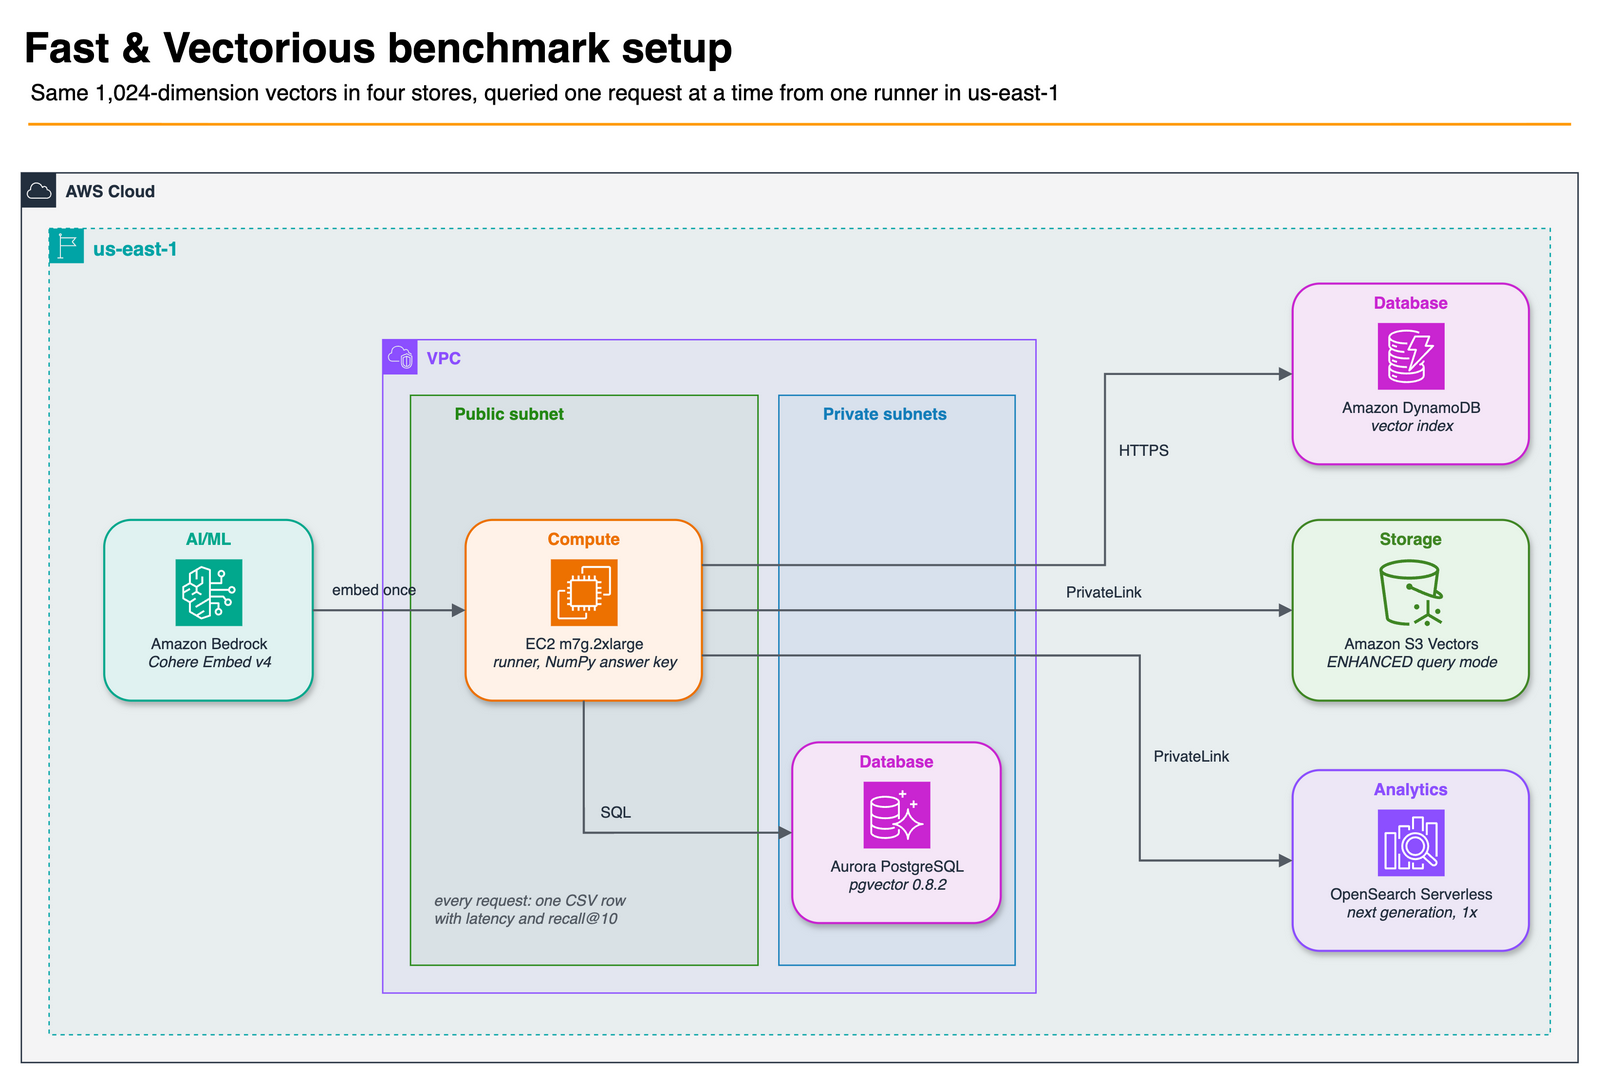
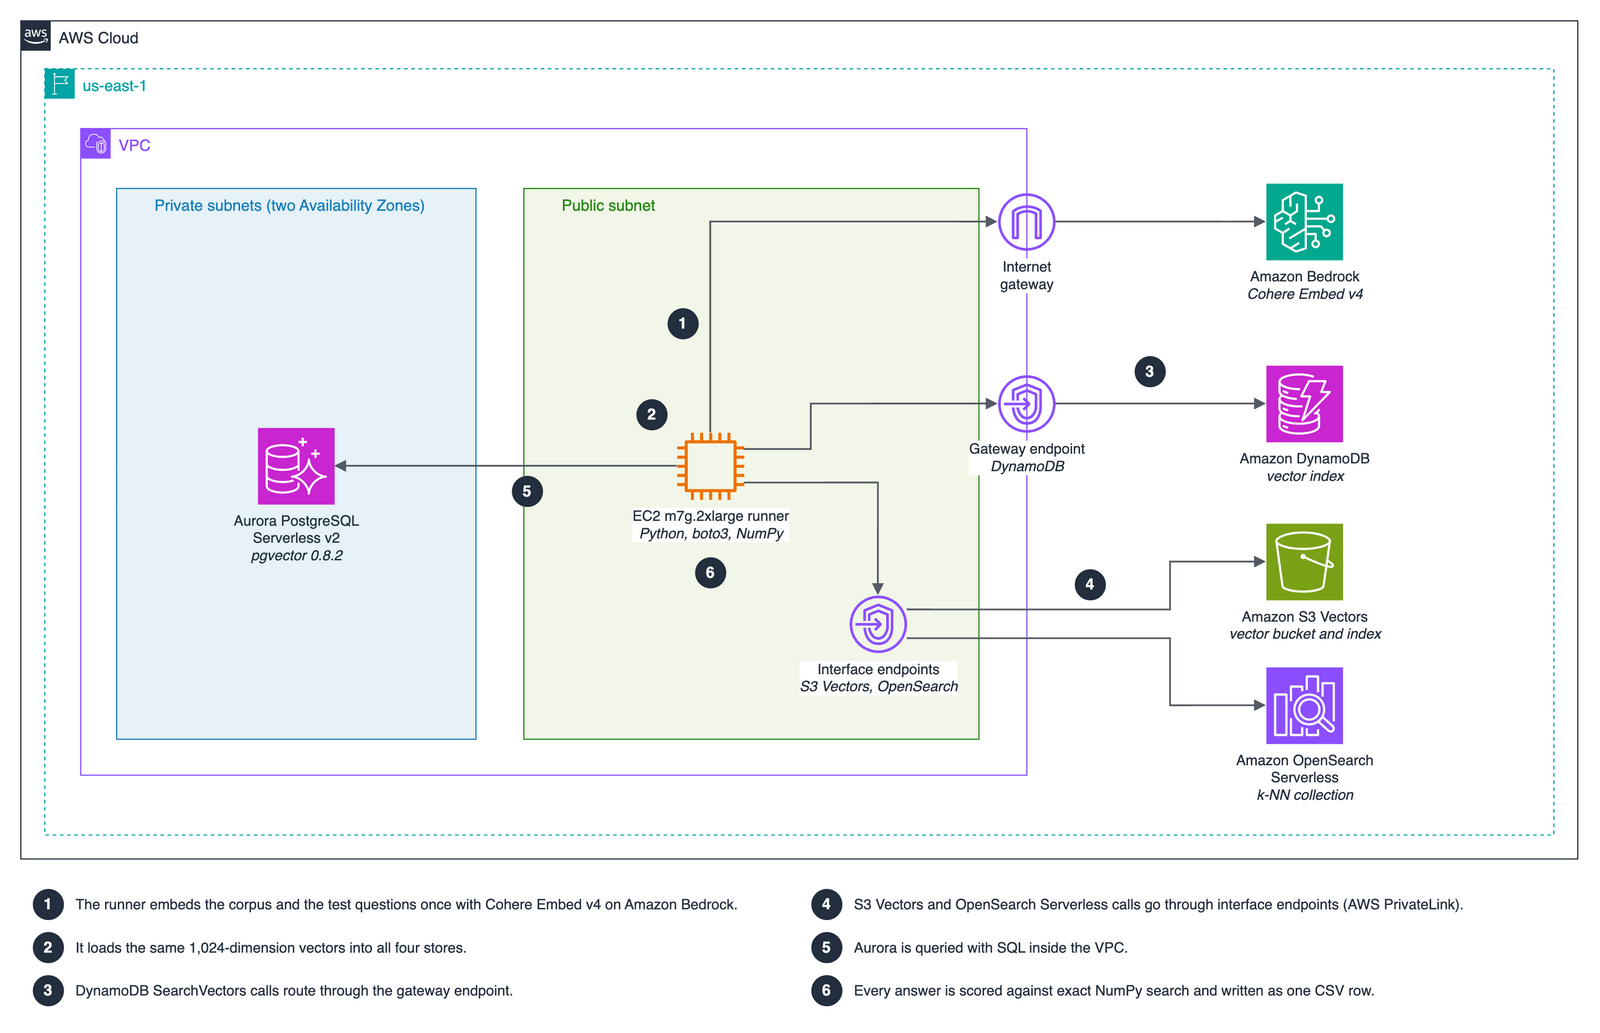
docs(article): redraw lab architecture in AWS reference style
Rebuild 01-architecture.png from a generated draw.io file
(img/src/architecture.py): AWS Cloud, region, VPC and subnet groups,
gateway and interface endpoints on the real infra/ topology, numbered
steps with a legend. Update the figure's alt text to match.

Claude-Session: https://claude.ai/code/session_012yNLCtYypbK8c2xCeGx44U

diff --git a/article/img/src/architecture.py b/article/img/src/architecture.py
@@ -1,0 +1,126 @@
+"""Write architecture.drawio: the lab setup in AWS reference-architecture style.
+
+    python3 article/img/src/architecture.py
+    /Applications/draw.io.app/Contents/MacOS/draw.io -x -f png --width 1600 -b 20 \
+        -o article/img/01-architecture.png article/img/src/architecture.drawio
+
+Topology follows infra/network.tf, infra/stores.tf and infra/runner.tf.
+"""
+from pathlib import Path
+from xml.sax.saxutils import escape
+
+FONT = "fontFamily=Helvetica;"
+INK = "#232F3E"
+PTS = ("points=[[0,0],[0.25,0],[0.5,0],[0.75,0],[1,0],[1,0.25],[1,0.5],[1,0.75],[1,1],"
+       "[0.75,1],[0.5,1],[0.25,1],[0,1],[0,0.75],[0,0.5],[0,0.25]];")
+cells = []
+
+
+def cell(id_, value, style, x, y, w, h):
+    value = value.replace("\n", "<br>")
+    cells.append(f'<mxCell id="{id_}" value="{escape(value, {chr(34): "&quot;"})}" style="{style}" '
+                 f'vertex="1" parent="1"><mxGeometry x="{x}" y="{y}" width="{w}" height="{h}" as="geometry"/></mxCell>')
+
+
+def group(id_, label, icon, stroke, fill, x, y, w, h, *, dashed=0, bold=0):
+    cell(id_, label, f"{PTS}outlineConnect=0;gradientColor=none;html=1;whiteSpace=wrap;fontSize=13;"
+         f"fontStyle={bold};shape=mxgraph.aws4.group;grIcon=mxgraph.aws4.{icon};strokeColor={stroke};"
+         f"fillColor={fill};verticalAlign=top;align=left;spacingLeft=30;fontColor={stroke};dashed={dashed};"
+         f"container=0;pointerEvents=0;collapsible=0;recursiveResize=0;{FONT}", x, y, w, h)
+
+
+def service(id_, label, icon, color, x, y, size=64):
+    cell(id_, label, f"sketch=0;outlineConnect=0;fontColor={INK};gradientColor=none;fillColor={color};"
+         f"strokeColor=#ffffff;dashed=0;verticalLabelPosition=bottom;verticalAlign=top;align=center;html=1;"
+         f"fontSize=12;fontStyle=0;aspect=fixed;shape=mxgraph.aws4.resourceIcon;resIcon=mxgraph.aws4.{icon};{FONT}",
+         x, y, size, size)
+
+
+def resource(id_, label, shape, color, x, y, size=48, label_pos="bottom"):
+    pos = ("verticalLabelPosition=bottom;verticalAlign=top;align=center;" if label_pos == "bottom" else
+           "labelPosition=left;verticalLabelPosition=middle;align=right;verticalAlign=middle;spacingRight=4;")
+    cell(id_, label, f"sketch=0;outlineConnect=0;fontColor={INK};gradientColor=none;fillColor={color};"
+         f"strokeColor=none;dashed=0;{pos}html=1;fontSize=12;fontStyle=0;aspect=fixed;pointerEvents=1;"
+         f"shape=mxgraph.aws4.{shape};labelBackgroundColor=#ffffff;{FONT}", x, y, size, size)
+
+
+def edge(id_, src, dst, exit_, entry, points=(), dashed=0):
+    wp = "".join(f'<mxPoint x="{px}" y="{py}"/>' for px, py in points)
+    geo = f'<Array as="points">{wp}</Array>' if wp else ""
+    cells.append(f'<mxCell id="{id_}" style="edgeStyle=orthogonalEdgeStyle;html=1;endArrow=block;endFill=1;'
+                 f'strokeColor=#545B64;strokeWidth=1.5;rounded=0;dashed={dashed};exitX={exit_[0]};exitY={exit_[1]};'
+                 f'exitDx=0;exitDy=0;entryX={entry[0]};entryY={entry[1]};entryDx=0;entryDy=0;{FONT}" '
+                 f'edge="1" parent="1" source="{src}" target="{dst}"><mxGeometry relative="1" as="geometry">'
+                 f'{geo}</mxGeometry></mxCell>')
+
+
+def badge(n, x, y):
+    cell(f"badge-{n}", str(n), f"ellipse;whiteSpace=wrap;html=1;aspect=fixed;fillColor={INK};strokeColor=none;"
+         f"fontColor=#FFFFFF;fontStyle=1;fontSize=13;{FONT}", x, y, 26, 26)
+
+
+# Groups
+group("aws-cloud", "AWS Cloud", "group_aws_cloud_alt", INK, "none", 20, 20, 1300, 700)
+group("region", "us-east-1", "group_region", "#00A4A6", "none", 40, 60, 1260, 640, dashed=1)
+group("vpc", "VPC", "group_vpc2", "#8C4FFF", "none", 70, 110, 790, 540)
+group("private", "Private subnets (two Availability Zones)", "group_private_subnet", "#147EBA", "#E6F2F8",
+      100, 160, 300, 460)
+group("public", "Public subnet", "group_public_subnet", "#248814", "#F2F6E8", 440, 160, 380, 460)
+
+# Inside the VPC
+service("aurora", "Aurora PostgreSQL\nServerless v2\n<i>pgvector 0.8.2</i>", "aurora", "#C925D1", 218, 360)
+resource("runner", "EC2 m7g.2xlarge runner\n<i>Python, boto3, NumPy</i>", "instance2", "#ED7100", 568, 364, 56)
+resource("ifep", "Interface endpoints\n<i>S3 Vectors, OpenSearch</i>", "endpoints", "#8C4FFF", 712, 500)
+
+# On the VPC edge
+resource("igw", "Internet\ngateway", "internet_gateway", "#8C4FFF", 836, 164)
+resource("gwep", "Gateway endpoint\n<i>DynamoDB</i>", "endpoints", "#8C4FFF", 836, 316)
+
+# Regional services
+service("bedrock", "Amazon Bedrock\n<i>Cohere Embed v4</i>", "bedrock", "#01A88D", 1060, 156)
+service("ddb", "Amazon DynamoDB\n<i>vector index</i>", "dynamodb", "#C925D1", 1060, 308)
+service("s3v", "Amazon S3 Vectors\n<i>vector bucket and index</i>", "s3", "#7AA116", 1060, 440)
+service("aoss", "Amazon OpenSearch\nServerless\n<i>k-NN collection</i>", "elasticsearch_service", "#8C4FFF",
+        1060, 560)
+
+# Flows
+edge("e-embed-1", "runner", "igw", (0.5, 0), (0, 0.5), points=[(596, 188)])
+edge("e-embed-2", "igw", "bedrock", (1, 0.5), (0, 0.5))
+edge("e-ddb-1", "runner", "gwep", (1, 0.25), (0, 0.5), points=[(680, 378), (680, 340)])
+edge("e-ddb-2", "gwep", "ddb", (1, 0.5), (0, 0.5))
+edge("e-if", "runner", "ifep", (1, 0.75), (0.5, 0), points=[(736, 406)])
+edge("e-s3v", "ifep", "s3v", (1, 0.25), (0, 0.5), points=[(980, 512), (980, 472)])
+edge("e-aoss", "ifep", "aoss", (1, 0.75), (0, 0.5), points=[(980, 536), (980, 592)])
+edge("e-aurora", "runner", "aurora", (0, 0.5), (1, 0.5))
+
+# Steps
+badge(1, 560, 260)
+badge(2, 534, 336)
+badge(3, 950, 300)
+badge(4, 900, 478)
+badge(5, 430, 400)
+badge(6, 583, 468)
+
+# Legend under the diagram
+steps = [
+    "The runner embeds the corpus and the test questions once with Cohere Embed v4 on Amazon Bedrock.",
+    "It loads the same 1,024-dimension vectors into all four stores.",
+    "DynamoDB SearchVectors calls route through the gateway endpoint.",
+    "S3 Vectors and OpenSearch Serverless calls go through interface endpoints (AWS PrivateLink).",
+    "Aurora is queried with SQL inside the VPC.",
+    "Every answer is scored against exact NumPy search and written as one CSV row.",
+]
+for i, text in enumerate(steps):
+    col, row = divmod(i, 3)
+    x, y = 30 + col * 650, 745 + row * 36
+    badge(f"{i + 1}-legend", x, y)
+    cells[-1] = cells[-1].replace(f'value="{i + 1}-legend"', f'value="{i + 1}"')
+    cell(f"legend-{i + 1}", text, f"text;html=1;align=left;verticalAlign=middle;whiteSpace=wrap;fontSize=12;"
+         f"fontColor={INK};{FONT}", x + 34, y - 4, 600, 34)
+
+xml = ('<mxfile host="Electron"><diagram name="Lab setup" id="lab-setup"><mxGraphModel dx="1400" dy="1000" '
+       'grid="0" gridSize="10" guides="1" tooltips="1" connect="1" arrows="1" fold="1" page="0" pageScale="1" '
+       'math="0" shadow="0"><root><mxCell id="0"/><mxCell id="1" parent="0"/>'
+       + "".join(cells) + "</root></mxGraphModel></diagram></mxfile>")
+Path(__file__).with_name("architecture.drawio").write_text(xml, encoding="utf-8")
+print("wrote architecture.drawio")

diff --git a/article/article.md b/article/article.md
@@ -62,7 +62,7 @@ Two of them, DynamoDB and S3 Vectors, have no servers or capacity to size. OpenS
 
 ## What you need
 
-![One EC2 runner in a VPC queries Aurora inside the VPC, DynamoDB over HTTPS, and S3 Vectors and OpenSearch Serverless through PrivateLink](img/01-architecture.png)
+![One EC2 runner in a VPC queries Aurora inside the VPC, DynamoDB through a gateway endpoint, S3 Vectors and OpenSearch Serverless through interface endpoints, and Bedrock through the internet gateway](img/01-architecture.png)
 
 - **An AWS account and a region with all four services.** I used us-east-1. The repo's `infra/` folder is Terraform for the VPC, an EC2 runner, the S3 vector bucket and indexes, the OpenSearch Serverless collection and an Aurora Serverless v2 cluster. DynamoDB vector tables are created from Python, because Terraform could not create the vector index when I built this.
 - **Python with** boto3 1.43.109, numpy, opensearch-py 3.2.0, psycopg 3.3.6 and the `pgvector` package. Those are the versions I ran; `runner/uv.lock` pins them all.
